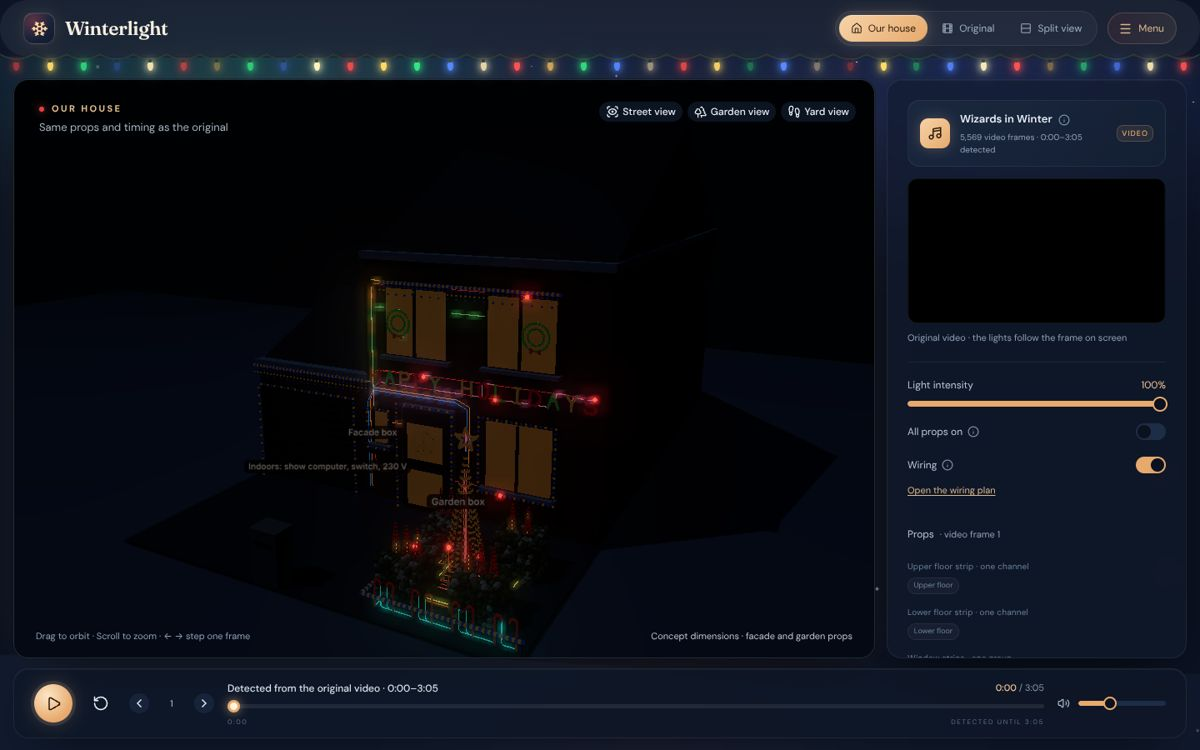
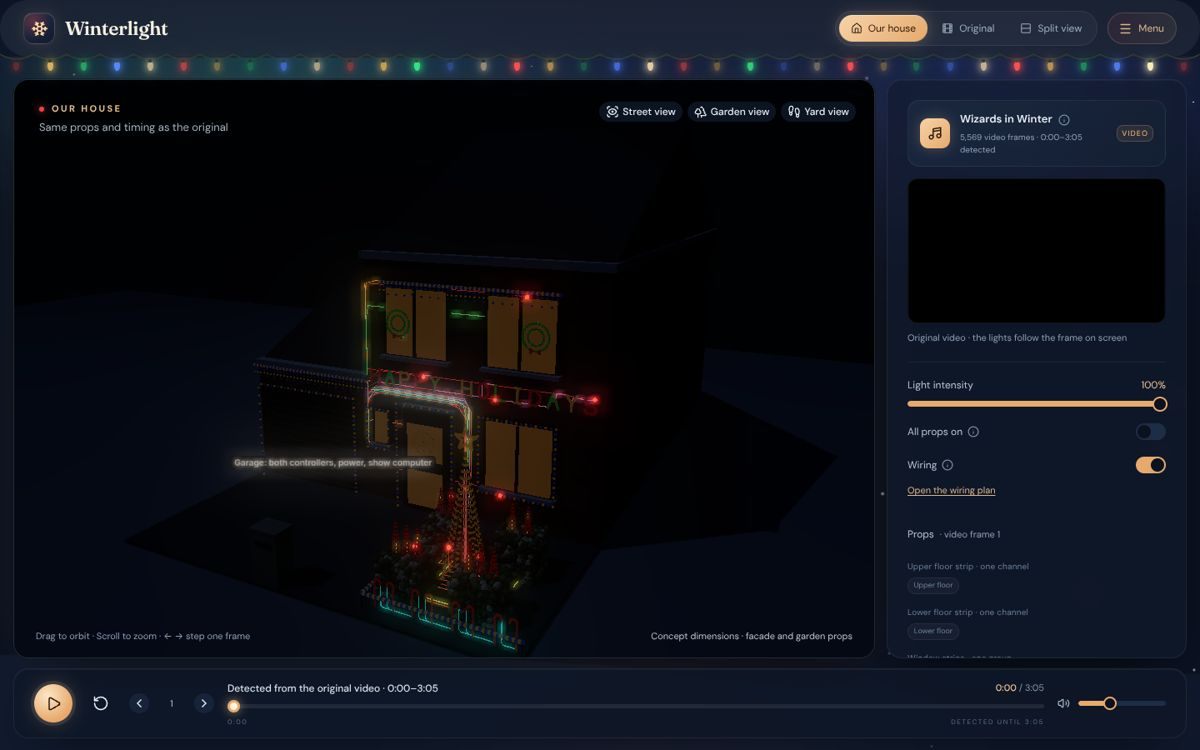
Wiring: both boxes in the garage, as the runbook now says
Every chain now leaves the garage through one gland next to the facade:
facade chains go up the wall, garden chains over the front door and down
beside it. First-hop cable lengths are measured from there (longest about
12 m). The diagram puts the show computer, switch, power strip and both
controllers in one garage frame with patch cables, and the notes cover the
Wago gel boxes, regulated strings on the long runs and the 12 V FM unit.

Claude-Session: https://claude.ai/code/session_01XWmdkfbGjPjeNverWG5Q3j

diff --git a/app/pages/wiring.vue b/app/pages/wiring.vue
@@ -2,45 +2,46 @@
 import {WIRING,WIRE_COLORS,LONGEST_RUN} from '~~/src/wiring/plan.js';
 
 // The wiring plan: one diagram of how the full show is connected, from the
-// show computer indoors to every prop, and a table per box. Everything comes
+// garage, where both boxes and the show computer sit, to every prop, and a
+// table per controller. Everything comes
 // from src/wiring/plan.js, which reads the cost model.
 definePageMeta({alias:['/wiring.html']});
 const {hub,zones,parts}=WIRING;
 const pct=v=>`${Math.round(v*100)}%`;
-const W=1180,RH=58,TOP=20,GAP=28,HEAD=56;
+const W=1180,RH=58,TOP=50,GAP=28,HEAD=56;
 // Short chip labels: the letter, the tree or strand number, a star for the tree star.
 const short=(port,p)=>port.props.length===1?port.name:p.name.includes('·')?p.name.split('·').pop().trim():p.name.endsWith('star')?'★':p.name.split(' ').pop();
 
-// Diagram geometry: the indoor hub on the left, a block per box with its power
-// supplies and controller, and one row per controller port with the chain of
-// props drawn to scale against the port's pixel limit.
+// Diagram geometry: the garage on the left (show computer, then a block per box with its power
+// supplies and controller), and outside its wall one row per controller port
+// with the chain of props drawn to scale against the port's pixel limit.
 const BOX={x:340,w:300},CTRL={x:504,w:120},PSU={x:356,w:136},TRACK={x:680,w:W-680-16};
 let y=TOP;
 const blocks=zones.map(z=>{
  const h=HEAD+z.ports.length*RH+14,top=y;y+=h+GAP;
  const rows=z.ports.map((port,i)=>{
   const ry=top+HEAD+i*RH,scale=TRACK.w/parts.portPixels;let x=TRACK.x;
-  const chips=port.props.map(p=>{const w=p.pixels*scale,c={x,w,label:short(port,p),title:`${p.name}: ${p.pixels} pixels, ${p.run} m of cable from the ${p===port.props[0]?'box':'previous prop'}`};x+=w;return c;});
+  const chips=port.props.map(p=>{const w=p.pixels*scale,c={x,w,label:short(port,p),title:`${p.name}: ${p.pixels} pixels, ${p.run} m of cable from the ${p===port.props[0]?'garage':'previous prop'}`};x+=w;return c;});
   return {port,y:ry,pin:ry+38,chips,injections:port.injections.map(j=>({x:TRACK.x+j.at*scale,title:`Power injection at pixel ${j.at} (${j.prop}), fed from power supply ${j.psu}`}))};
  });
  const psuH=40,psus=z.psus.map((s,i)=>({...s,y:top+HEAD+i*(psuH+12),h:psuH}));
  return {z,top,h,rows,psus,ctrl:{y:top+HEAD-6,h:z.ports.length*RH+2}};
 });
-const H=y-GAP+TOP;
-const HUB={x:16,w:200,y:H/2-78,h:156};
+const H=y-GAP+20;
+const HUB={x:24,w:210,y:(TOP+H)/2-78,h:156},GARAGE={x:8,y:8,w:BOX.x+BOX.w+16-8,h:H-16};
 const curve=(x1,y1,x2,y2)=>{const m=(x1+x2)/2;return `M${x1},${y1} C${m},${y1} ${m},${y2} ${x2},${y2}`;};
 const links=blocks.flatMap(b=>[
- {d:curve(HUB.x+HUB.w,HUB.y+64,BOX.x,b.top+30),color:WIRE_COLORS.network,label:`Cat5e · ~${b.z.network.length} m`,lx:BOX.x-8,ly:b.top+24},
+ {d:curve(HUB.x+HUB.w,HUB.y+64,BOX.x,b.top+30),color:WIRE_COLORS.network,label:'Patch cable',lx:BOX.x-8,ly:b.top+24},
  ...b.psus.map(s=>({d:curve(HUB.x+HUB.w,HUB.y+112,PSU.x,s.y+s.h/2),color:WIRE_COLORS.mains,dash:'5 4'})),
 ]);
-const mainsLabels=blocks.map(b=>({x:BOX.x-8,y:b.psus.at(-1).y+b.psus.at(-1).h+16,text:`230 V · ~${b.z.mains.length} m`}));
+const mainsLabels=blocks.map(b=>({x:BOX.x-8,y:b.psus.at(-1).y+b.psus.at(-1).h+16,text:'Power strip'}));
 
 const totals={ports:zones.reduce((s,z)=>s+z.ports.length,0),injections:zones.reduce((s,z)=>s+z.ports.reduce((t,p)=>t+p.injections.length,0),0),
  cable:zones.reduce((s,z)=>s+z.ports.reduce((t,p)=>t+p.cable,0),0),psus:zones.reduce((s,z)=>s+z.psus.length,0)};
 
 const SITE='https://winterlight.alexander-df0.workers.dev';
 const TITLE='Winterlight · Wiring plan';
-const DESCRIPTION='How the Winterlight show on our house is wired: the show computer and switch, the two controller boxes with their power supplies, every controller port and its chain of props, power injection, network and mains.';
+const DESCRIPTION='How the Winterlight show on our house is wired: the show computer and the two controller boxes in the garage, their power supplies, every controller port and its chain of props, and power injection.';
 useHead({title:TITLE,link:[{rel:'canonical',href:`${SITE}/wiring.html`}],bodyAttrs:{class:'wiring-page'}});
 useSeoMeta({description:DESCRIPTION,ogType:'website',ogSiteName:'Winterlight',ogLocale:'en_GB',ogTitle:TITLE,ogDescription:DESCRIPTION,ogUrl:`${SITE}/wiring.html`,
  ogImage:`${SITE}/og-image.jpg`,ogImageType:'image/jpeg',ogImageWidth:1200,ogImageHeight:630,ogImageAlt:'3D model of a house with a wireframe Christmas tree, a peace sign, Christmas circles and HAPPY HOLIDAYS letters lit up',
@@ -54,13 +55,13 @@ useSeoMeta({description:DESCRIPTION,ogType:'website',ogSiteName:'Winterlight',og
     <main class="costs wiring">
       <section class="intro">
         <h1>Wiring plan</h1>
-        <p>How the full show is connected: {{ WIRING.pixels.toLocaleString('en') }} pixels on {{ totals.ports }} controller ports in two boxes, fed from indoors.
+        <p>How the full show is connected: {{ WIRING.pixels.toLocaleString('en') }} pixels on {{ totals.ports }} controller ports, with both boxes and the show computer in the garage.
           Numbers come from the LED cost estimate. <a href="/?wiring=1">See the wiring in the 3D model</a>.</p>
       </section>
 
       <section class="diagram glass" aria-label="Wiring diagram">
         <div class="legend">
-          <span><i class="swatch-line" :style="{background:WIRE_COLORS.network}" /> Network (Cat5e)</span>
+          <span><i class="swatch-line" :style="{background:WIRE_COLORS.network}" /> Network</span>
           <span><i class="swatch-line dashed" :style="{color:WIRE_COLORS.mains}" /> 230 V mains</span>
           <span><i class="swatch-line" :style="{background:WIRE_COLORS.power}" /> 12 V power</span>
           <span><i class="swatch-line" style="background:linear-gradient(90deg,#f6c75a,#5ec8f0,#b48cff)" /> Pixel data, one colour per port</span>
@@ -68,25 +69,28 @@ useSeoMeta({description:DESCRIPTION,ogType:'website',ogSiteName:'Winterlight',og
         </div>
         <div class="diagram-scroll">
           <svg id="wiring-diagram" :viewBox="`0 0 ${W} ${H}`" role="img" aria-labelledby="diagram-title">
-            <title id="diagram-title">Wiring diagram: show computer and switch indoors, network and mains to the facade box and the garden box, and each controller port's chain of props</title>
+            <title id="diagram-title">Wiring diagram: the garage with the show computer, switch and both controller boxes, and each controller port's chain of props outside</title>
+            <rect :x="GARAGE.x" :y="GARAGE.y" :width="GARAGE.w" :height="GARAGE.h" rx="18" class="garage" />
+            <text :x="GARAGE.x+16" :y="GARAGE.y+26" class="t-room">GARAGE</text>
+            <text :x="GARAGE.x+GARAGE.w-8" :y="GARAGE.y+26" class="t-dim" text-anchor="end">through the wall to the props →</text>
             <path v-for="(l,i) in links" :key="i" :d="l.d" fill="none" :stroke="l.color" stroke-width="2" :stroke-dasharray="l.dash" opacity=".85" />
             <text v-for="(l,i) in links.filter(l=>l.label)" :key="`n${i}`" :x="l.lx" :y="l.ly" class="t-wire" :fill="WIRE_COLORS.network" text-anchor="end">{{ l.label }}</text>
             <text v-for="(m,i) in mainsLabels" :key="`m${i}`" :x="m.x" :y="m.y" class="t-wire" :fill="WIRE_COLORS.mains" text-anchor="end">{{ m.text }}</text>
 
             <g class="hub">
               <rect :x="HUB.x" :y="HUB.y" :width="HUB.w" :height="HUB.h" rx="14" class="card" />
-              <text :x="HUB.x+16" :y="HUB.y+28" class="t-title">{{ hub.name }}</text>
-              <text :x="HUB.x+16" :y="HUB.y+44" class="t-dim">{{ hub.where.split(' (')[0] }}</text>
+              <text :x="HUB.x+16" :y="HUB.y+28" class="t-title">Show computer</text>
+              <text :x="HUB.x+16" :y="HUB.y+44" class="t-dim">on a shelf next to the boxes</text>
               <text :x="HUB.x+16" :y="HUB.y+70" class="t-body">Raspberry Pi 5 · Falcon Player</text>
               <text :x="HUB.x+16" :y="HUB.y+90" class="t-body">5-port switch</text>
-              <text :x="HUB.x+16" :y="HUB.y+116" class="t-body">230 V sockets</text>
-              <text :x="HUB.x+16" :y="HUB.y+136" class="t-dim">FM transmitter for the music</text>
+              <text :x="HUB.x+16" :y="HUB.y+116" class="t-body">Power strip on a 30 mA RCD</text>
+              <text :x="HUB.x+16" :y="HUB.y+136" class="t-dim">FM transmitter on 12 V</text>
             </g>
 
             <g v-for="b in blocks" :key="b.z.id" class="zone" :data-zone="b.z.id">
               <rect :x="BOX.x" :y="b.top" :width="BOX.w" :height="b.h" rx="14" class="card" />
               <text :x="BOX.x+16" :y="b.top+26" class="t-title">{{ b.z.name }}</text>
-              <text :x="BOX.x+16" :y="b.top+42" class="t-dim">{{ b.z.pixels.toLocaleString('en') }} px · {{ b.z.watts }} W max · {{ b.z.boxes }} enclosures</text>
+              <text :x="BOX.x+16" :y="b.top+42" class="t-dim">{{ b.z.pixels.toLocaleString('en') }} px · {{ b.z.watts }} W max · {{ b.z.feeds }}</text>
 
               <g v-for="s in b.psus" :key="s.n">
                 <rect :x="PSU.x" :y="s.y" :width="PSU.w" :height="s.h" rx="8" class="psu" />
@@ -130,7 +134,7 @@ useSeoMeta({description:DESCRIPTION,ogType:'website',ogSiteName:'Winterlight',og
 
       <section v-for="z in zones" :id="z.id" :key="z.id" class="glass box-card">
         <h2>{{ z.name }}</h2>
-        <p class="led">{{ z.where[0].toUpperCase()+z.where.slice(1) }}. One {{ parts.controller.split(' (')[0] }} and {{ z.psus.length }} power supplies in {{ z.boxes }} IP65 enclosures; Cat5e (~{{ z.network.length }} m) and 230 V (~{{ z.mains.length }} m) from indoors.</p>
+        <p class="led">In the garage, for {{ z.feeds }}: one {{ parts.controller.split(' (')[0] }} and {{ z.psus.length }} power supplies on a wall board, a patch cable to the switch and a plug in the power strip. Cable lengths run from the garage.</p>
         <div class="table-scroll">
           <table>
             <thead><tr><th>Port</th><th>Chain, in data order</th><th class="num">Pixels</th><th class="num">Cable</th><th>Power injection</th><th class="num">Supply</th></tr></thead>
@@ -156,10 +160,10 @@ useSeoMeta({description:DESCRIPTION,ogType:'website',ogSiteName:'Winterlight',og
       </section>
 
       <section class="wiring-notes">
-        <div class="glass"><UIcon name="i-lucide-cable" class="card-icon" /><h3>Data</h3><p>Each prop group is one chain on one port: from the box to the first prop, then prop to prop, with a 3-core X-con extension and a pigtail per prop. Start each prop at its corner nearest the box. The longest single run is {{ LONGEST_RUN }} m; past about 15 m, add a null pixel.</p></div>
-        <div class="glass"><UIcon name="i-lucide-zap" class="card-icon" /><h3>Power</h3><p>12 V, two supplies per box, each kept under {{ pct(parts.psuLoad) }} load. A T-splitter feeds 4 mm² wire from the chain's supply into the run every {{ parts.injectEvery }} pixels. Fuse every output on the terminal block.</p></div>
-        <div class="glass"><UIcon name="i-lucide-network" class="card-icon" /><h3>Network</h3><p>The Pi runs Falcon Player and sends E1.31/DDP to both controllers through the switch. Reserve fixed IP addresses for the Pi and both controllers.</p></div>
-        <div class="glass"><UIcon name="i-lucide-shield-alert" class="card-icon" /><h3>Mains</h3><p>230 V only reaches the supply terminals inside the enclosures. Cable glands at the bottom, a drip loop on every cable, and the plug out while wiring.</p></div>
+        <div class="glass"><UIcon name="i-lucide-cable" class="card-icon" /><h3>Data</h3><p>Each prop group is one chain on one port: out of the garage to the first prop, then prop to prop, on xConnect 18 AWG extensions with a pigtail pair per prop. Facade chains go up the wall; garden chains go over the front door at 2.55 m and down beside it, so the door and the path stay clear. The longest lead is about {{ LONGEST_RUN }} m, under the 15 m where a null pixel is needed. Start each prop at its corner nearest the garage.</p></div>
+        <div class="glass"><UIcon name="i-lucide-zap" class="card-icon" /><h3>Power</h3><p>12 V, two Mean Well supplies per controller, each kept under {{ pct(parts.psuLoad) }} load. Every {{ parts.injectEvery }} pixels a T-splitter takes a red and black 4 mm² run from the chain's supply, joined with Wagos in a gel box outside. Regulated strings go on the long runs (tree, eaves, windows) so they stay evenly bright; the small props use the standard strings.</p></div>
+        <div class="glass"><UIcon name="i-lucide-network" class="card-icon" /><h3>Network and music</h3><p>The Pi runs Falcon Player and sends E1.31/DDP to both controllers through the switch, all on patch cables in the garage. Reserve fixed IP addresses for the Pi and both controllers. The car FM transmitter runs from a 12 V supply, on the street side of the garage and not in a metal box.</p></div>
+        <div class="glass"><UIcon name="i-lucide-shield-alert" class="card-icon" /><h3>Mains</h3><p>Everything plugs into one power strip in the garage, on a 30 mA RCD. 230 V only reaches the supply terminals on the wall board; fuse every 12 V output, and keep the plug out while wiring.</p></div>
       </section>
     </main>
   </div>
@@ -177,6 +181,8 @@ useSeoMeta({description:DESCRIPTION,ogType:'website',ogSiteName:'Winterlight',og
 .diagram-scroll svg{display:block;width:100%;min-width:1040px;height:auto;font-family:var(--font-sans)}
 .scroll-hint{display:none}
 .card{fill:#0f1a2c;stroke:#ffffff1f}
+.garage{fill:#ffffff05;stroke:#efc19755;stroke-dasharray:6 5}
+.t-room{font-size:11px;letter-spacing:2px;font-weight:700;fill:#e3bd8f}
 .psu{fill:#2a1714;stroke:#ff4d3d55}
 .ctrl{fill:#14233a;stroke:#5ec8f055}
 .track{fill:#ffffff08;stroke:#ffffff14}

diff --git a/src/wiring/plan.js b/src/wiring/plan.js
@@ -1,4 +1,4 @@
-import {estimate,ALL,ZONES,GROUP_LIST,DEFAULTS} from '../costs/estimate.js';
+import {estimate,ALL,GROUP_LIST,DEFAULTS} from '../costs/estimate.js';
 import {PRICES as P,WATTS_PER_PIXEL,PSU_WATTS,PSU_LOAD,PORT_PIXELS,PORTS_PER_CONTROLLER,INJECT_EVERY} from '../costs/catalog.js';
 import {OWN_CHANNELS} from '../props.js';
 import {HOUSE} from '../house.js';
@@ -8,8 +8,9 @@ import {HOUSE} from '../house.js';
 // the shopping list all agree. Each zone has one box with a controller and its
 // power supplies; every prop group is one chain on one controller port, wired
 // from the box to the first prop and prop to prop; a chain gets power injected
-// every INJECT_EVERY pixels. The show computer and switch sit indoors, and a
-// network cable and a 230 V feed run from there to each box.
+// every INJECT_EVERY pixels. Both boxes sit in the garage with the show
+// computer and switch (the runbook's choice), so every chain leaves the garage
+// through one hole next to the facade, and network and mains stay indoors.
 const FULL=estimate(ALL,DEFAULTS);
 const byId=Object.fromEntries(OWN_CHANNELS.map(c=>[c.id,c]));
 const round1=v=>Math.round(v*10)/10;
@@ -18,8 +19,9 @@ const round1=v=>Math.round(v*10)/10;
 export const PORT_COLORS=['#f6c75a','#5ec8f0','#b48cff','#ff8fb1','#7ee081','#ff9d4d','#4fd1c5','#e6e96b','#9fb4ff','#f07167'];
 export const WIRE_COLORS={power:'#ff4d3d',network:'#4a9dff',mains:'#ff9a2e'};
 // Where the cables leave the house: the garage, at the corner next to the facade box.
-export const HUB={name:'Indoors',where:'in the garage (the plan has no spot for it yet)',entry:[HOUSE.garageWidth+.05,.25,.03],
- parts:[`Raspberry Pi 5 with Falcon Player (FPP)`,'5-port network switch','230 V sockets for the boxes']};
+// Where the cables leave the garage: through the wall just right of it, at the
+// runbook's box height (GARAGE_BOX in src/runbook/runbook.js).
+export const HUB={name:'Garage',where:'both boxes, the show computer and the switch',exit:[HOUSE.garageWidth+.05,1,.03]};
 
 // Cables follow the walls and the ground in straight runs: on the facade they
 // go up first, then across; in the garden they drop to the ground, run along
@@ -32,32 +34,36 @@ export function route(a,b){
  return clean([a,[a[0],GROUND_Y,a[2]],[a[0],GROUND_Y,b[2]],[b[0],GROUND_Y,b[2]],b]);
 }
 const pathLength=points=>points.slice(1).reduce((s,p,i)=>s+Math.hypot(...p.map((v,j)=>v-points[i][j])),0);
-// The garden box is reached over the front door, as the runbook's lead from the garage is.
+// Garden cables go over the front door and down beside it, as the runbook's
+// lead from the garage does, so the door and the path stay clear.
 const OVER_DOOR=2.55,GARDEN_X=HOUSE.entry.maxX+.1;
-function feed(zone,offset=0){
- const e=[HUB.entry[0]+offset,HUB.entry[1],HUB.entry[2]],box=ZONES[zone].box;
- if(zone==='facade')return clean([e,[e[0],box[1]+offset,WALL_Z],[box[0],box[1]+offset,WALL_Z],box]);
- return clean([e,[e[0],OVER_DOOR+offset,WALL_Z],[GARDEN_X+offset,OVER_DOOR+offset,WALL_Z],[GARDEN_X+offset,GROUND_Y,WALL_Z],[GARDEN_X+offset,GROUND_Y,box[2]],box]);
+function fromGarage(zone,to,offset=0){
+ const e=[HUB.exit[0],HUB.exit[1]+offset,HUB.exit[2]];
+ if(zone==='facade')return route(e,to);
+ const down=[GARDEN_X+offset,GROUND_Y,WALL_Z];
+ return clean([e,[e[0],OVER_DOOR+offset,WALL_Z],[down[0],OVER_DOOR+offset,WALL_Z],down,...route(down,to).slice(1)]);
 }
 
 function buildZone(id,firstColor){
- const zone=ZONES[id],z=FULL.zones[id],box=zone.box;
+ const z=FULL.zones[id],box=HUB.exit;
  const groups=FULL.groups.filter(g=>g.zone===id&&g.props.length);
  // Each group is one chain on its own port, in the order the cost page lists them.
  const ports=groups.map((g,i)=>{
   const meta=GROUP_LIST.find(x=>x.id===g.id);
-  let from=box,index=0;const segments=[],props=[];
-  for(const p of g.props){
-   const c=byId[p.id];
-   segments.push(route(from,c.bulbs[0].pos));from=c.bulbs.at(-1).pos;
-   props.push({id:p.id,name:p.name,pixels:p.pixels,run:p.run,first:index});index+=p.pixels;
+  let from=null,index=0;const segments=[],props=[];
+  // The first hop is the lead from the garage; the cost model's runs still
+  // start at its outdoor box spots, so that one is measured along the route.
+  for(const [k,p] of g.props.entries()){
+   const c=byId[p.id],seg=from?route(from,c.bulbs[0].pos):fromGarage(id,c.bulbs[0].pos,i*.035);
+   segments.push(seg);from=c.bulbs.at(-1).pos;
+   props.push({id:p.id,name:p.name,pixels:p.pixels,run:k?p.run:Math.ceil(pathLength(seg)+.5),first:index});index+=p.pixels;
   }
   // Power is injected at every INJECT_EVERY-th pixel along the chain.
   const bulbs=g.props.flatMap(p=>byId[p.id].bulbs.map(b=>b.pos));
   const injections=Array.from({length:Math.floor((g.pixels-1)/INJECT_EVERY)},(_,k)=>{
    const at=(k+1)*INJECT_EVERY,prop=props.findLast(p=>p.first<=at);return {at,pos:bulbs[at],prop:prop.name};});
   return {n:i+1,group:g.id,name:meta.name,color:PORT_COLORS[(firstColor+i)%PORT_COLORS.length],pixels:g.pixels,
-   load:g.pixels/PORT_PIXELS,cable:g.props.reduce((s,p)=>s+p.run,0),props,segments,injections,watts:round1(g.pixels*WATTS_PER_PIXEL)};
+   load:g.pixels/PORT_PIXELS,cable:props.reduce((s,p)=>s+p.run,0),props,segments,injections,watts:round1(g.pixels*WATTS_PER_PIXEL)};
  });
  // Power supplies share the ports: the biggest chain goes to the least loaded supply.
  const psus=Array.from({length:z.psus},(_,i)=>({n:i+1,ports:[],pixels:0}));
@@ -65,11 +71,10 @@ function buildZone(id,firstColor){
   const psu=psus.reduce((m,s)=>s.pixels<m.pixels?s:m);psu.ports.push(port.n);psu.pixels+=port.pixels;port.psu=psu.n;
  }
  for(const s of psus){s.ports.sort((a,b)=>a-b);s.watts=round1(s.pixels*WATTS_PER_PIXEL);s.load=s.watts/PSU_WATTS;}
- for(const port of ports)for(const inj of port.injections){inj.psu=port.psu;inj.path=route(box,inj.pos);}
- const network=feed(id),mains=feed(id,.06);
- return {id,name:zone.name,where:zone.where,box,pixels:z.pixels,watts:round1(z.pixels*WATTS_PER_PIXEL),
-  controllers:z.controllers,portsFree:z.controllers*PORTS_PER_CONTROLLER-ports.length,boxes:z.boxes,
-  ports,psus,network:{path:network,length:Math.ceil(pathLength(network)+1)},mains:{path:mains,length:Math.ceil(pathLength(mains)+1)}};
+ // The 4 mm² injection runs come from the supplies in the garage along the same way out.
+ for(const port of ports)for(const inj of port.injections){inj.psu=port.psu;inj.path=fromGarage(id,inj.pos,-.04);}
+ return {id,name:id==='facade'?'Facade controller':'Garden controller',feeds:id==='facade'?'the facade props':'the garden props',pixels:z.pixels,watts:round1(z.pixels*WATTS_PER_PIXEL),
+  controllers:z.controllers,portsFree:z.controllers*PORTS_PER_CONTROLLER-ports.length,ports,psus};
 }
 
 const facade=buildZone('facade',0);

diff --git a/src/scene.js b/src/scene.js
@@ -98,9 +98,9 @@ export function createScene(host) {
     for(const [x,y,z] of c.posts||[])cylinder(.012,y,x,y/2,z,mats.frame);
   }
   const tree=PROP_LAYOUT.tree;cylinder(.02,tree.height,tree.x,tree.height/2,tree.z,mats.frame);cylinder(.12,.06,tree.x,.03,tree.z,mats.frame);
-  // The wiring layer, hidden until switched on: the boxes, each controller port's
-  // data cable in its own colour, power injection points and the network and
-  // 230 V feeds from indoors (src/wiring/plan.js).
+  // The wiring layer, hidden until switched on: each controller port's data
+  // cable in its own colour from the garage, and the power injection points
+  // with their feeds (src/wiring/plan.js).
   const wiring=new THREE.Group();wiring.visible=false;scene.add(wiring);
   const wireMat=color=>new THREE.MeshBasicMaterial({color:new THREE.Color(color).multiplyScalar(.38)});
   function wire(points,r,mat){const curve=new THREE.CurvePath(),v=points.map(p=>new THREE.Vector3(...p));for(let i=1;i<v.length;i++)curve.add(new THREE.LineCurve3(v[i-1],v[i]));wiring.add(new THREE.Mesh(new THREE.TubeGeometry(curve,(v.length-1)*4,r,5,false),mat));}
@@ -112,16 +112,14 @@ export function createScene(host) {
     const sprite=new THREE.Sprite(new THREE.SpriteMaterial({map:tex,color:'#a3a3a3',depthTest:false}));sprite.renderOrder=10;
     sprite.scale.set(canvas.width/canvas.height*.3,.3,1);sprite.position.set(...pos);wiring.add(sprite);
   }
-  const boxMat=new THREE.MeshStandardMaterial({color:'#3a4350',roughness:.6}),powerMat=wireMat(WIRE_COLORS.power),netMat=wireMat(WIRE_COLORS.network),mainsMat=wireMat(WIRE_COLORS.mains);
-  const node=new THREE.SphereGeometry(.045,10,8),injectMat=new THREE.MeshBasicMaterial({color:WIRE_COLORS.power});
+  const powerMat=wireMat(WIRE_COLORS.power),node=new THREE.SphereGeometry(.045,10,8),injectMat=new THREE.MeshBasicMaterial({color:WIRE_COLORS.power});
   for(const z of WIRING.zones){
-    const [x,y,zz]=z.box,b=new THREE.Mesh(new THREE.BoxGeometry(.28,.21,.13),boxMat);b.position.set(x,y,zz+.065);wiring.add(b);
-    tag(z.name,[x,y+.38,zz+.1]);
     for(const port of z.ports){const mat=wireMat(port.color);for(const seg of port.segments)wire(seg,.01,mat);}
     for(const port of z.ports)for(const inj of port.injections){wire(inj.path,.008,powerMat);const m=new THREE.Mesh(node,injectMat);m.position.set(...inj.pos);wiring.add(m);}
-    wire(z.network.path,.01,netMat);wire(z.mains.path,.01,mainsMat);
   }
-  tag('Indoors: show computer, switch, 230 V',[WIRING.hub.entry[0]-1.1,WIRING.hub.entry[1]+.3,.15]);
+  // Both controller boxes sit in the garage; every cable leaves it through one gland next to the facade.
+  const [gx,gy,gz]=WIRING.hub.exit,gland=new THREE.Mesh(new THREE.BoxGeometry(.16,.3,.06),new THREE.MeshStandardMaterial({color:'#3a4350',roughness:.6}));gland.position.set(gx,gy+.02,gz);wiring.add(gland);
+  tag('Garage: both controllers, power, show computer',[gx-.9,gy-.3,.2]);
   const bulbs=[],channelBulbs=OWN_CHANNELS.map(()=>[]);
   OWN_CHANNELS.forEach((c,i)=>{for(const b of c.bulbs){channelBulbs[i].push(bulbs.length);bulbs.push({...b,color:new THREE.Color(b.color)});}});
   const lights=new THREE.InstancedMesh(new THREE.SphereGeometry(.029,8,6),new THREE.MeshBasicMaterial({toneMapped:false}),bulbs.length),m4=new THREE.Matrix4(),tmp=new THREE.Color();

diff --git a/app/pages/index.vue b/app/pages/index.vue
@@ -110,7 +110,7 @@ useSeoMeta({
             <USwitch id="all-on" v-model="state.allOn" aria-label="All props on" />
           </div>
           <div v-show="player.shows('ours')" class="switch-row">
-            <span class="label-with-tip">Wiring <InfoTip text="Shows how our house is wired: the two boxes, each controller port's data cable in its own colour, power injection points in red, and the network (blue) and 230 V (orange) feeds from indoors. The wiring plan page has the full diagram." label="About the wiring" /></span>
+            <span class="label-with-tip">Wiring <InfoTip text="Shows how our house is wired: each controller port's data cable in its own colour, running from the garage where both boxes sit, and the power injection points in red with their 12 V feeds. The wiring plan page has the full diagram." label="About the wiring" /></span>
             <USwitch id="wiring" v-model="state.wiring" aria-label="Show wiring" />
           </div>
           <p v-show="player.shows('ours')&&state.wiring" class="note wiring-note"><a href="/wiring.html">Open the wiring plan</a></p>

diff --git a/tests/wiring.test.js b/tests/wiring.test.js
@@ -21,9 +21,9 @@ test('ports, power supplies and injections match the cost model',()=>{
   assert.equal(inj,splitters,z.id);
  }
 });
-test('every cable route starts at its box and ends at a bulb',()=>{
+test('every chain leaves the garage and every route ends at a bulb',()=>{
  for(const z of WIRING.zones)for(const p of z.ports){
-  assert.deepEqual(p.segments[0][0],z.box);
+  assert.equal(p.segments[0][0][0],WIRING.hub.exit[0]);
   for(const seg of p.segments)assert.ok(seg.length>=2&&seg.every(pt=>pt.every(Number.isFinite)));
   for(const j of p.injections)assert.ok(j.pos&&j.path.at(-1)===j.pos);
  }
